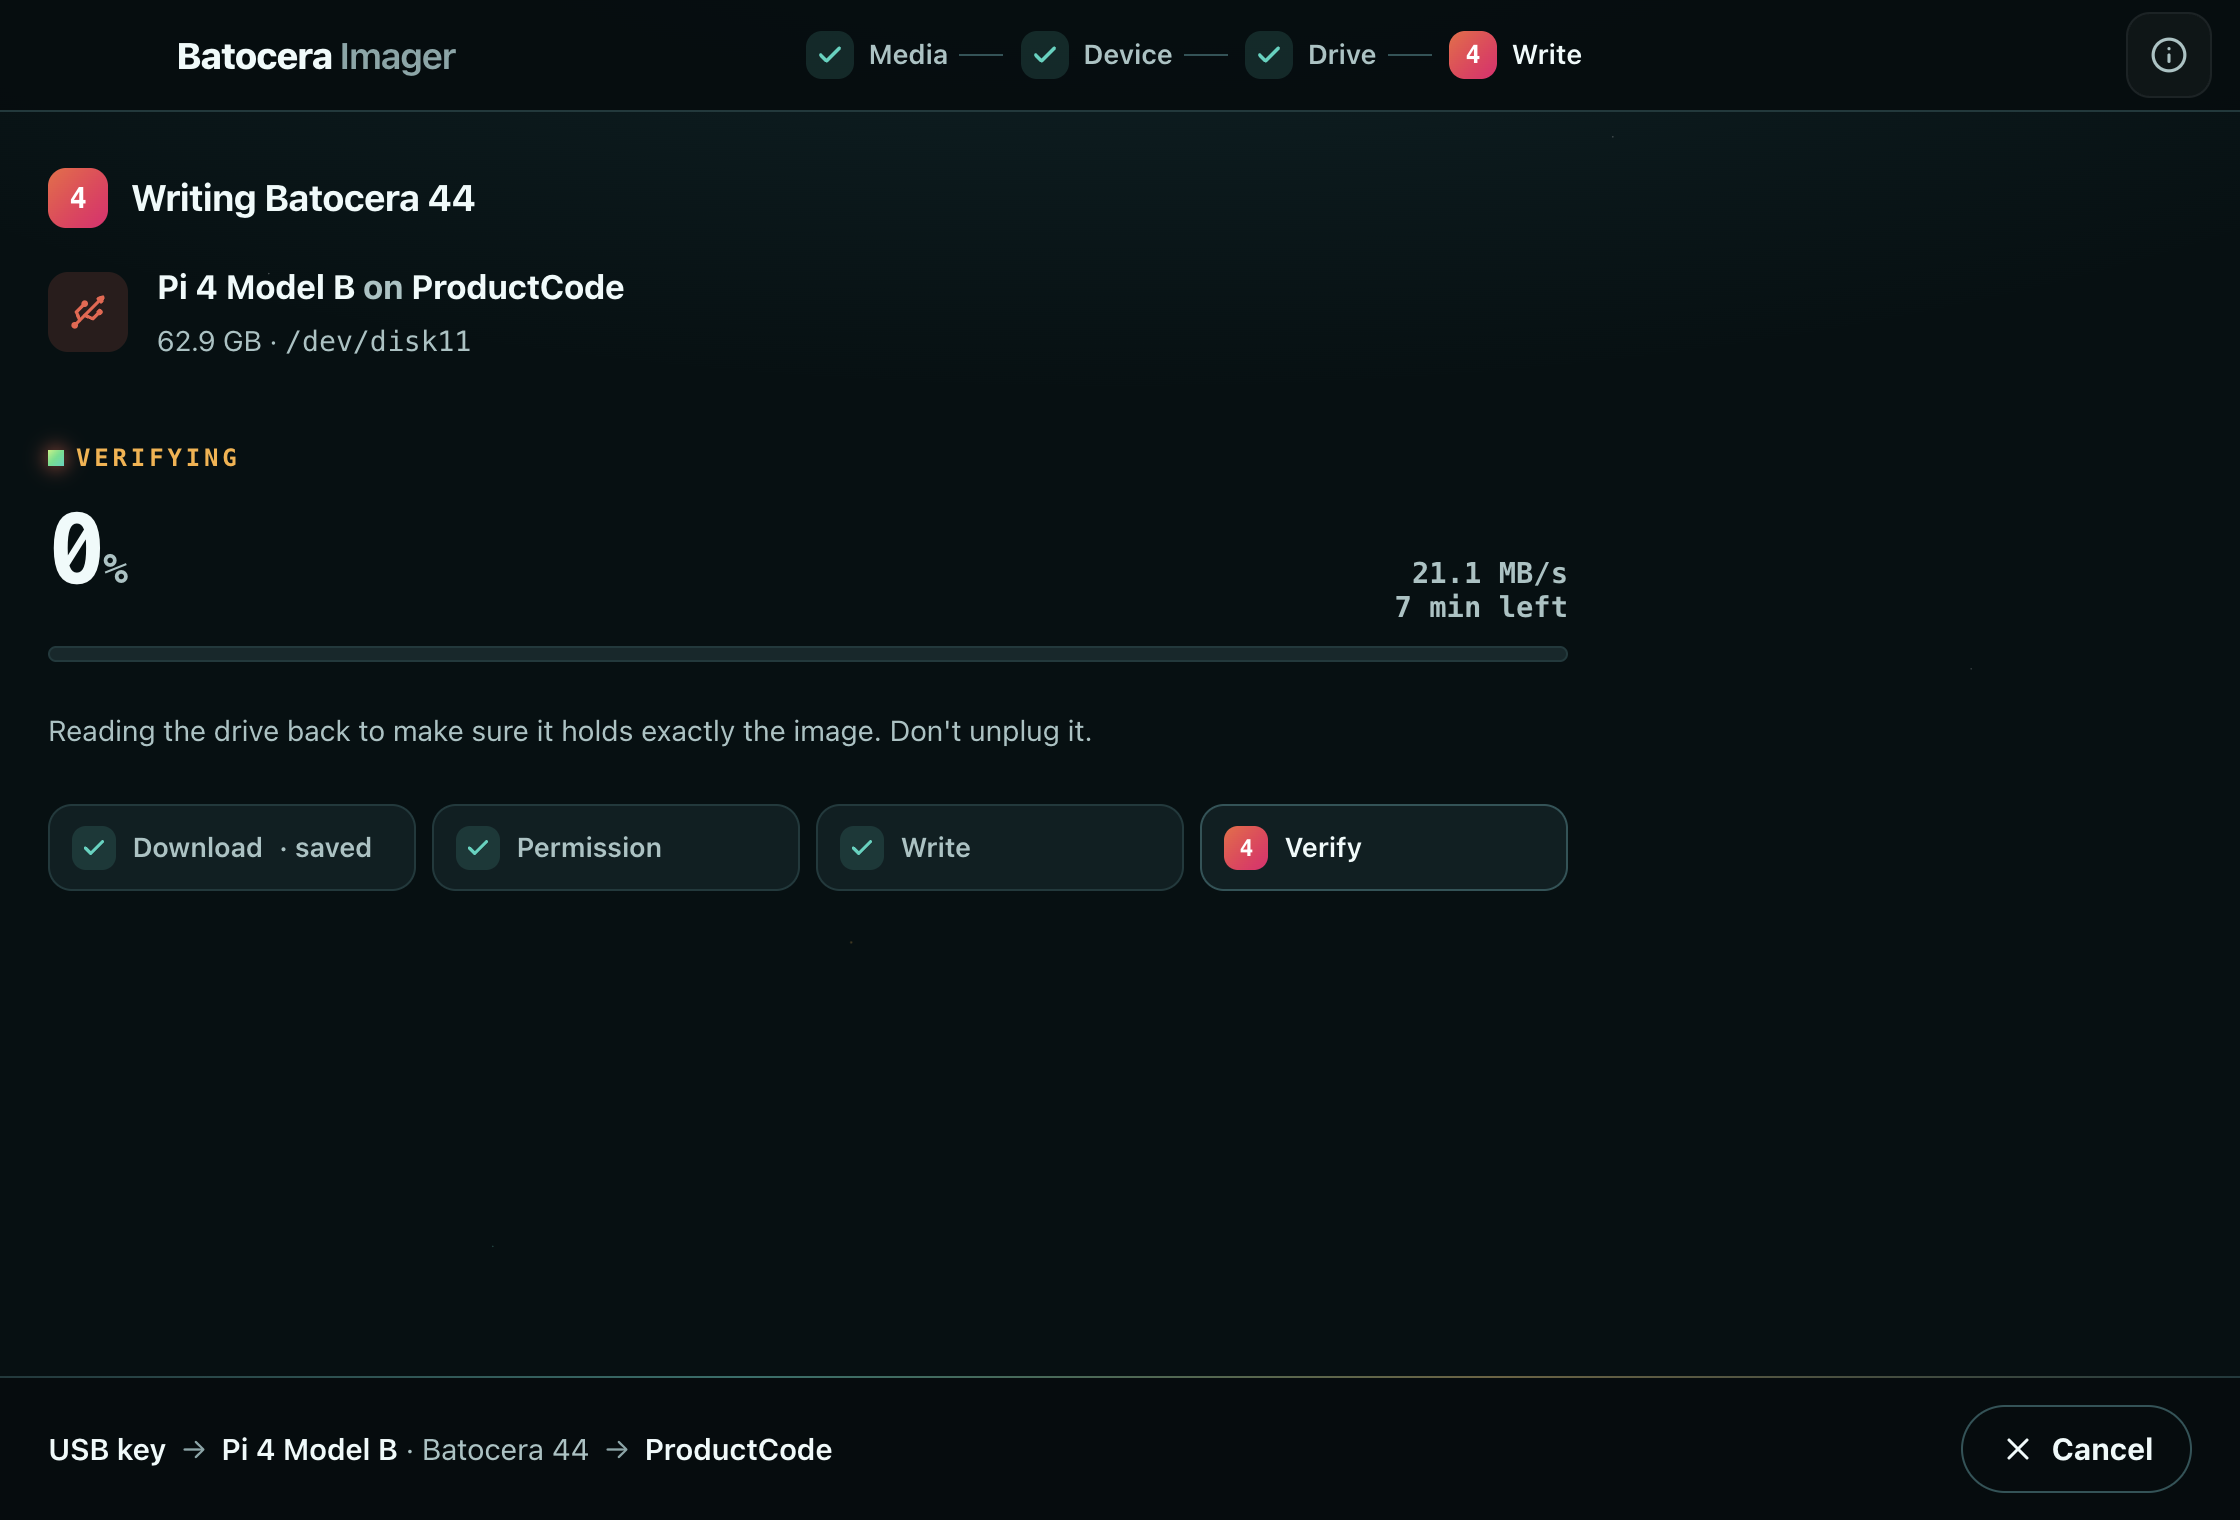
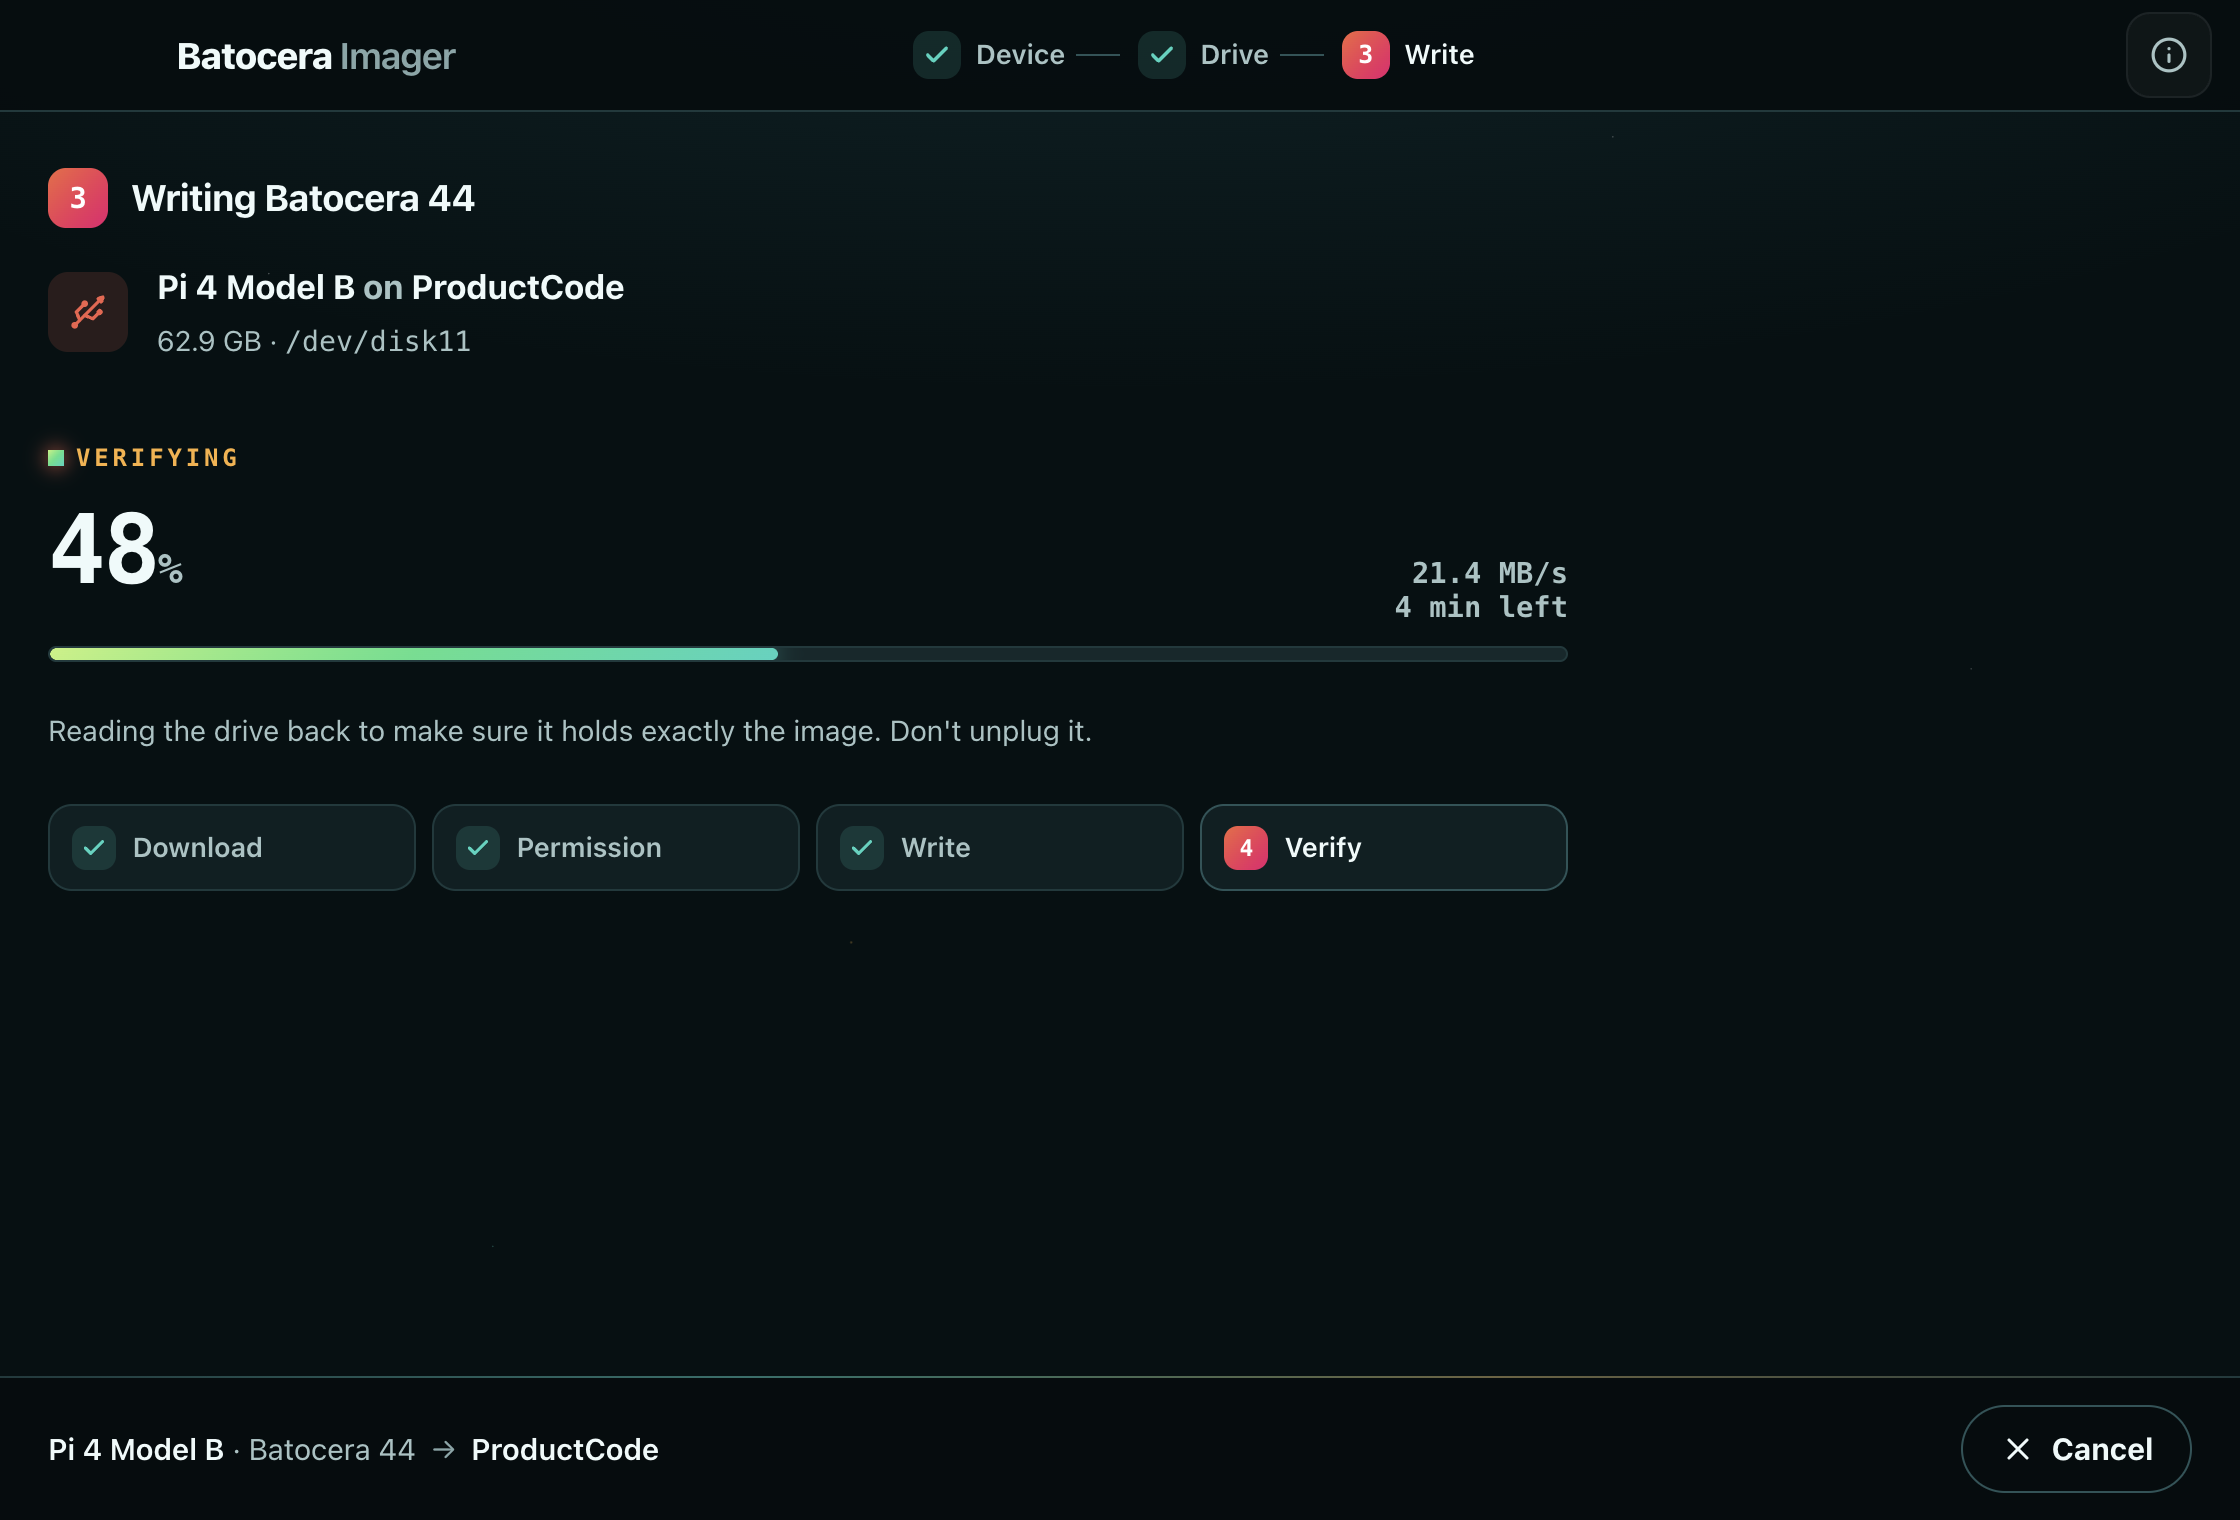
Show the three-step screens of a real write, and retry the macOS eject
- README: writing, verifying (both near 50 %) and done screens from a new
  real write of Batocera 44 for the Pi 4 to a 64 GB USB key with 0.1.0
- macOS: right after the write macOS mounts the new partitions, and an eject
  in the middle of that failed; it is now tried again for a few seconds,
  unmounting first

diff --git a/src/main/access/macos.ts b/src/main/access/macos.ts
@@ -54,6 +54,22 @@ type Message =
   | { t: "done"; n: number }
   | { t: "error"; m: string };
 
+/**
+ * Ejects the drive. Right after the write macOS mounts the new partitions, and
+ * an eject in the middle of that fails: it is tried again for a few seconds,
+ * unmounting first.
+ */
+async function eject(disk: string): Promise<boolean> {
+  for (let attempt = 1; attempt <= 5; attempt++) {
+    if (attempt > 1) {
+      await new Promise(r => setTimeout(r, 2000));
+      await run(DISKUTIL, ["unmountDisk", "force", disk], { timeoutMs: 30_000 }).catch(() => undefined);
+    }
+    if (await run(DISKUTIL, ["eject", disk], { timeoutMs: 60_000 }).then(() => true, () => false)) return true;
+  }
+  return false;
+}
+
 /** When macOS refused the drive: the person said no to "access files on a removable volume". */
 export const DRIVE_PRIVACY_HELP =
   `${DRIVE_PRIVACY_ERROR} In System Settings > Privacy & Security > Files and Folders, turn on Removable Volumes ` +
@@ -220,7 +236,7 @@ export async function openDrive(drive: Drive, signal: AbortSignal, options: MacO
       socket.end();
       await cleanup();
       if (!success) return false;
-      return run(DISKUTIL, ["eject", `/dev/${id}`], { timeoutMs: 60_000 }).then(() => true, () => false);
+      return eject(`/dev/${id}`);
     },
   };
 }

diff --git a/README.md b/README.md
@@ -71,8 +71,8 @@ The installers are not signed yet, so the first launch shows a warning:
 
 ### A real installation
 
-Batocera 44 for a Raspberry Pi 4 written to a 64 GB USB key by the macOS app: 9.13 GB written at
-8 MB/s, read back and compared at 21 MB/s, then ejected.
+Batocera 44 for a Raspberry Pi 4 written to a 64 GB USB key by the macOS app (version 0.1.0):
+9.13 GB written at 8 MB/s, then read back and compared at 21 MB/s.
 
 <p align="center">
   <img src="docs/assets/screenshots/writing.png" alt="Writing" width="410">

diff --git a/CHANGELOG.md b/CHANGELOG.md
@@ -6,6 +6,11 @@ All notable changes to this project are documented here. The format follows
 
 ## [Unreleased]
 
+### Fixed
+
+- macOS: the drive is ejected at the end even when macOS is still mounting its new partitions:
+  the eject is tried again for a few seconds instead of leaving the drive to eject by hand.
+
 ## [0.1.0] - 2026-11-24
 
 The first version. Unofficial: Batocera Imager is not made by the Batocera team.
